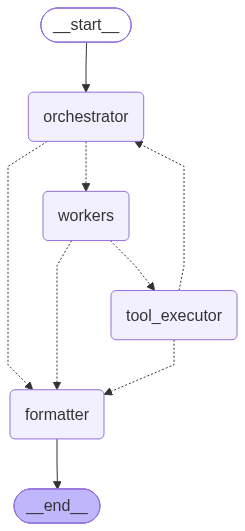
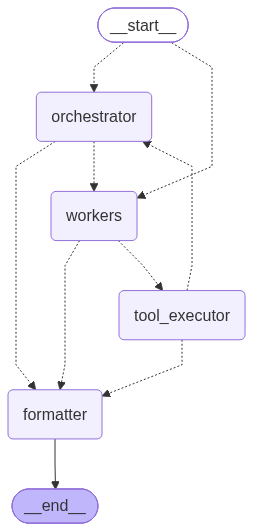
make co-pilot button vibrant

diff --git a/scripts/visualize/visualize_graph.py b/scripts/visualize/visualize_graph.py
@@ -2,7 +2,7 @@
 Script to visualize the LangGraph architecture for synlio-ai.
 
 Usage:
-    .\\venv\\Scripts\\python visualize\\visualize_graph.py
+    .\\venv\\Scripts\\python scripts\\visualize\\visualize_graph.py
 """
 import os
 import sys
@@ -25,7 +25,7 @@ def main():
     graph = compiled_graph.get_graph()
 
     png_path = SCRIPT_DIR / "graph.png"
-    md_path = SCRIPT_DIR / "graph_mermaid.md"
+    md_path = SCRIPT_DIR / "graph_raw_mermaid.md"
 
     # 1. Save PNG
     try:
@@ -36,12 +36,12 @@ def main():
     except Exception as e:
         print(f" Could not generate PNG (network/service error): {e}")
 
-    # 2. Save Mermaid markdown file
+    # 2. Save raw Mermaid markdown file
     try:
         mermaid_code = graph.draw_mermaid()
         with open(md_path, "w", encoding="utf-8") as f:
             f.write("```mermaid\n" + mermaid_code + "\n```\n")
-        print(f" Successfully exported Mermaid syntax to '{md_path.name}' in {SCRIPT_DIR.name}/!")
+        print(f" Successfully exported raw Mermaid syntax to '{md_path.name}' in {SCRIPT_DIR.name}/!")
     except Exception as e:
         print(f" Could not generate Mermaid syntax: {e}")
 

diff --git a/app/agent/tools.py b/app/agent/tools.py
@@ -58,7 +58,8 @@ def rows_to_toon(
         lines.append(
             f"\n[DATA_NOTICE: All {cnt} matching records are provided above (FULL LIST, NOT SAMPLED). "
             f"In your Overview section, write a natural, informative 1-2 sentence executive overview answering the user's query directly based on the data. "
-            f"Do NOT use robotic boilerplate phrases like 'Here is the complete list of all {cnt} records matching your request', and NEVER say 'preview of sample records'.]"
+            f"Do NOT use robotic boilerplate phrases like 'Here is the complete list of all {cnt} records matching your request', and NEVER say 'preview of sample records'. "
+            f"Do NOT append <!--preview_count:...--> because all matching data is already shown.]"
         )
     return "\n".join(lines)
 

diff --git a/scripts/visualize/graph_mermaid.md b/scripts/visualize/graph_mermaid.md
@@ -1,26 +1,99 @@
-```mermaid
----
-config:
-  flowchart:
-    curve: linear
----
-graph TD;
-	__start__([<p>__start__</p>]):::first
-	orchestrator(orchestrator)
-	workers(workers)
-	tool_executor(tool_executor)
-	formatter(formatter)
-	__end__([<p>__end__</p>]):::last
-	__start__ --> orchestrator;
-	orchestrator -.-> formatter;
-	orchestrator -.-> workers;
-	tool_executor -.-> formatter;
-	tool_executor -.-> orchestrator;
-	workers -.-> formatter;
-	workers -.-> tool_executor;
-	formatter --> __end__;
-	classDef default fill:#f2f0ff,line-height:1.2
-	classDef first fill-opacity:0
-	classDef last fill:#bfb6fc
+# Synlio AI LangGraph Architecture & Decision Logic
 
+This document details the complete end-to-end flow of the **Synlio AI LangGraph Agent**, including all **decision nodes**, **security gates**, **sampling row limits**, **retry thresholds**, and **page context overrides**.
+
+---
+
+## 1. Complete Architecture Flowchart
+
+```mermaid
+flowchart TD
+    %% Entry & Agent Preset Bypass
+    START([User Prompt / API Request]) --> CheckPreset{Screen Agent Preset?}
+
+    CheckPreset -->|Agent preset provided<br/>e.g. resource_analytics| PresetBypass["<b>Orchestrator Bypass</b><br/>Directly set active_workers from agent<br/>Fast-track dispatch"]
+    CheckPreset -->|No preset<br/>General /chat request| OrchestratorNode["<b>Orchestrator Node</b><br/>Classify query into domains:<br/>• project_analytics<br/>• ticket_analytics<br/>• resource_analytics"]
+
+    PresetBypass --> WorkersNode
+    OrchestratorNode --> CheckActiveDomains{Active Domains Detected?}
+
+    CheckActiveDomains -->|1 or more domains active| WorkersNode["<b>Parallel Workers Node</b><br/>• User Context: email lookup in gold.dim_resource<br/>• Tier 2 Page Context: space_id, pool_id, parent_task_id<br/>• History Window: last 6 conversation messages<br/>• Retry Notice: schema adjustment advice if round > 1<br/>• Parallel dispatch via asyncio.gather"]
+    CheckActiveDomains -->|0 domains: greeting or general chat| FormatterNode
+
+    %% Worker Output Evaluation
+    WorkersNode --> CheckToolCalls{Tool Calls Generated?}
+    CheckToolCalls -->|No tool calls: direct conversational reply| FormatterNode
+    CheckToolCalls -->|Tool calls generated| ToolExecutorNode["<b>Custom Tool Executor Node</b>"]
+
+    %% Tool Execution, Security & Sampling Logic
+    subgraph ToolExecutorLogic ["Tool Executor & Query Builder Subgraph"]
+        CheckForceKeywords{"Force Keywords Detected?<br/>('force', 'full list', 'all data', 'all tasks', etc.)"}
+
+        CheckForceKeywords -->|Keyword Matched| SetForceTrue["Set force = True<br/>Bypass row limit clause"]
+        CheckForceKeywords -->|No Match| SetForceFalse["Set force = False<br/>Apply Standard Row Limits"]
+
+        SetForceTrue --> SecurityTier1["<b>Tier 1: Security Scope (Hard Gate - Non-Overridable)</b><br/>• Enforce company_id = auth_user.company_id<br/>• Enforce space_id IN (allowed_task_space_ids)<br/>• Enforce ticket_space_id IN (allowed_ticket_space_ids)"]
+        SetForceFalse --> SecurityTier1
+
+        SecurityTier1 --> CheckScopeOverride{"User Prompt Cross-Space Intent?<br/>('all spaces', 'across teams', 'all projects')"}
+
+        CheckScopeOverride -->|Yes: Cross-space intent| DropPageFilter["<b>Tier 2 Override:</b> Drop Page Context Filter<br/><b>RETAIN Tier 1: space_id IN (allowed)</b>"]
+        CheckScopeOverride -->|No: Standard contextual query| ApplyPageFilter["<b>Tier 2 Soft Scope:</b> Apply Page Context Filter<br/>(e.g. space_id = current_page_space_id)"]
+
+        DropPageFilter --> SamplingCheck{"Total Rows > SAMPLE_LIMIT?<br/>(Default SAMPLE_LIMIT = 200)"}
+        ApplyPageFilter --> SamplingCheck
+
+        SamplingCheck -->|total_count > 200 AND force is False| AddLimit["Append LIMIT 200 to SQL Query"]
+        SamplingCheck -->|force is True OR total_count <= 200| NoLimit["Fetch complete dataset (no LIMIT)"]
+
+        AddLimit --> ExecuteSQL["Execute Parameterized SQL<br/>via SQLAlchemy Connection Pool"]
+        NoLimit --> ExecuteSQL
+
+        ExecuteSQL --> ValidateResults{"Validate Query Results<br/>Check for: zero rows, empty [], error"}
+    end
+
+    ToolExecutorNode --> CheckForceKeywords
+
+    %% Retry Loop & Threshold
+    ValidateResults -->|Valid Data (> 0 rows)| RouteToolOutcome{"Needs Retry?"}
+    ValidateResults -->|Empty Data or Error| CheckRetryThreshold{"Current Round < MAX_ROUNDS?<br/>(Default QUERY_ROUND_COUNT = 2)"}
+
+    CheckRetryThreshold -->|Round < 2: Retry Allowed| TriggerRetry["Set needs_retry = True<br/>current_round += 1<br/>Generate retry_feedback with schema tips"]
+    CheckRetryThreshold -->|Round >= 2: Retries Exhausted| ExhaustRetry["Set needs_retry = False<br/>Forward empty state to Formatter"]
+
+    TriggerRetry --> RouteToolOutcome
+    ExhaustRetry --> RouteToolOutcome
+
+    RouteToolOutcome -->|needs_retry == True| OrchestratorNode
+    RouteToolOutcome -->|needs_retry == False| FormatterNode["<b>Formatter Node</b><br/>• Synthesize multi-worker query outputs<br/>• Format rich Markdown: tables, badges, KPIs<br/>• Generate ECharts JSON config (if chartable)"]
+
+    FormatterNode --> END([Stream SSE to Frontend Copilot Drawer / Chat])
+
+    %% Styling
+    classDef startEnd fill:#0284c7,stroke:#0369a1,color:#ffffff,font-weight:bold;
+    classDef decision fill:#fef3c7,stroke:#d97706,color:#92400e,font-weight:bold;
+    classDef nodeClass fill:#f0fdf4,stroke:#16a34a,color:#14532d;
+    classDef logicClass fill:#f8fafc,stroke:#64748b,color:#0f172a;
+    classDef securityClass fill:#fef2f2,stroke:#dc2626,color:#991b1b,font-weight:bold;
+
+    class START,END startEnd;
+    class CheckPreset,CheckActiveDomains,CheckToolCalls,CheckForceKeywords,CheckScopeOverride,SamplingCheck,ValidateResults,CheckRetryThreshold,RouteToolOutcome decision;
+    class OrchestratorNode,WorkersNode,ToolExecutorNode,FormatterNode nodeClass;
+    class PresetBypass,SetForceTrue,SetForceFalse,DropPageFilter,ApplyPageFilter,AddLimit,NoLimit,ExecuteSQL,TriggerRetry,ExhaustRetry logicClass;
+    class SecurityTier1 securityClass;
 ```
+
+---
+
+## 2. Thresholds, Limits & Logic Reference Table
+
+| Logic / Threshold | Configuration / Source | Default Value | Trigger Condition | Behavior |
+| :--- | :--- | :--- | :--- | :--- |
+| **Max Retry Rounds** | Env `QUERY_ROUND_COUNT` in `app/agent/graph.py` | `2` rounds | Tool output contains `"zero rows"`, `"[0]: []"`, `"error"`, or missing tool | If `current_round < 2`, loops back to orchestrator/workers with `retry_feedback` instructing the LLM to use wildcards (`%val%`), relax filters, or re-verify columns. If `round >= 2`, halts retry and forwards to Formatter. |
+| **Sample Row Limit** | Env `SAMPLE_LIMIT` in `app/agent/tools.py` | `200` rows | `total_count > SAMPLE_LIMIT` and `force == False` | Automatically runs a `COUNT(*)` probe. If records exceed `200`, appends `LIMIT 200` to prevent LLM token overflow while informing user of total count. |
+| **Force Keyword Override** | `full_list_keywords` list in `app/agent/graph.py` | Keyword list | User query contains `"force"`, `"full list"`, `"complete list"`, `"all records"`, `"bring all data"`, `"show all"`, `"view all"`, `"see all"`, `"all data"`, `"all tasks"`, `"all tickets"` | Sets `force = True`, completely bypassing the `LIMIT 200` clause so the entire dataset is queried and analyzed. |
+| **Conversation History Window** | `workers.py` line 285 | `6` messages | When generating SQL queries for follow-up questions | Slices `state["messages"][-6:]` into conversation history context so follow-up queries (*"How about John?"*, *"Break that down by status"*) retain context without bloating prompt tokens. |
+| **Tier 1 Security Scope** | Authenticated User Token / Scope in `app/agent/tools.py` | Hard Gate (non-overridable) | Every database query execution | Injects `company_id = :company_id`, `space_id IN (:allowed_task_space_ids)`, and `ticket_space_id IN (:allowed_ticket_space_ids)`. **User cannot bypass this gate under any circumstances.** |
+| **Tier 2 Page Context (Soft Scope)** | `context` dict from frontend Copilot side panel in `app/agent/workers.py` | Current Page IDs | Side drawer opened on specific task/ticket/pool page | Automatically injects `current_space_id` or `current_pool_id` into prompt and query filters so answers default to the user's active screen. |
+| **Tier 2 Scope Override Rule** | Natural Language Intent Detection | User explicitly requests cross-space data | Query phrases: *"all spaces"*, *"across teams"*, *"all projects"*, *"compare spaces"* | Drops the page-specific filter (`current_space_id`), but **strictly retains Tier 1** (`space_id IN allowed_spaces`) so the user only sees data from spaces they belong to. |
+| **Agent Preset Bypass** | Request param `agent` in `app/api/chat.py` | Optional preset | Preset passed (e.g. `resource_analytics`) | Bypasses Orchestrator classification completely, directly setting `active_workers` to the preset and saving ~1.5s latency. |

diff --git a/app/agent/config/formatter/system_prompt.md b/app/agent/config/formatter/system_prompt.md
@@ -13,10 +13,12 @@ Every response MUST ALWAYS contain all three of these sections in this exact ord
 ### Overview
 1-2 sentence executive summary directly answering the user's question.
 - DO NOT show any UI elements, tags, badges, or `{{...}}` syntax in Overview. Output clean natural text only.
-- **Sampled Data**: If results contain `(PREVIEW)` or `SAMPLING_NOTICE`:
+- **Sampled Data**: ONLY if results explicitly contain `SAMPLING_NOTICE` or `(PREVIEW)`:
   State: "Showing a preview of {sample_count} out of {total_count} records matching your request. Let me know if you would like to view the complete list."
   Append `<!--preview_count:{total_count}-->` at the very end of the entire response.
-- **Full Data**: Provide a direct, natural answer. Never claim "preview of sample records" when all records are shown.
+- **Full Data**: When results contain `DATA_NOTICE` (full list provided):
+  Provide a direct, natural answer based on all records.
+  CRITICAL: NEVER say "preview of sample records", and NEVER append `<!--preview_count:...-->` because all data is already shown.
 
 ### [Topic Title]
 Replace `[Topic Title]` with a clean, descriptive H3 title (e.g., `### Workload Distribution`, `### Skills Distribution`). Do not prefix with numbers, "Chart:", or "Table:".

diff --git a/scripts/visualize/graph_raw_mermaid.md b/scripts/visualize/graph_raw_mermaid.md
@@ -1,0 +1,27 @@
+```mermaid
+---
+config:
+  flowchart:
+    curve: linear
+---
+graph TD;
+	__start__([<p>__start__</p>]):::first
+	orchestrator(orchestrator)
+	workers(workers)
+	tool_executor(tool_executor)
+	formatter(formatter)
+	__end__([<p>__end__</p>]):::last
+	__start__ -.-> orchestrator;
+	__start__ -.-> workers;
+	orchestrator -.-> formatter;
+	orchestrator -.-> workers;
+	tool_executor -.-> formatter;
+	tool_executor -.-> orchestrator;
+	workers -.-> formatter;
+	workers -.-> tool_executor;
+	formatter --> __end__;
+	classDef default fill:#f2f0ff,line-height:1.2
+	classDef first fill-opacity:0
+	classDef last fill:#bfb6fc
+
+```
